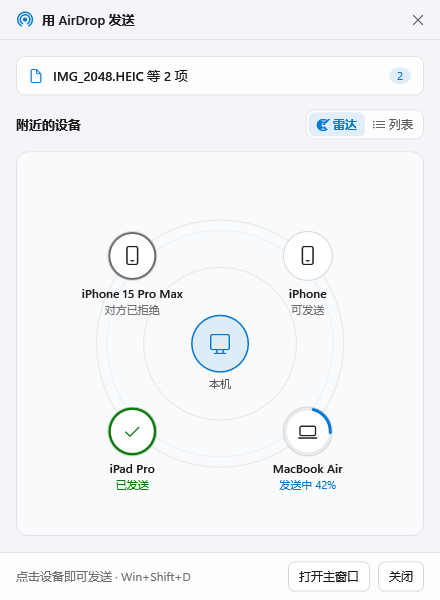
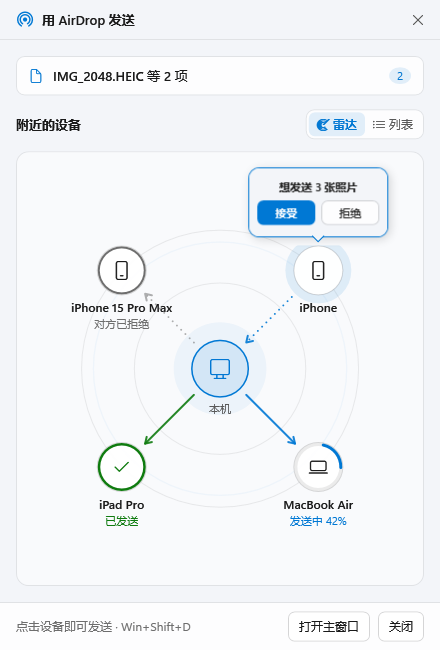
README: 2.0 screenshots (request bubble, arrows)

diff --git a/README.md b/README.md
@@ -46,7 +46,7 @@ A Windows 11 window with its own title bar: nearby iPhones and Macs on a radar (
 
 <table>
   <tr>
-    <td align="center"><img src="docs/screenshots/main-radar.png" width="280" alt="Main window: radar"><br><sub>Radar: waiting, sending, sent, declined</sub></td>
+    <td align="center"><img src="docs/screenshots/main-radar.png" width="280" alt="Main window: radar"><br><sub>Radar: a request to answer, sending, sent, declined</sub></td>
     <td align="center"><img src="docs/screenshots/main-list-dark.png" width="280" alt="Main window: list, dark"><br><sub>List, dark</sub></td>
     <td align="center"><img src="docs/screenshots/send.png" width="230" alt="Send window"><br><sub>Right-click a file → Send with nekodrop</sub></td>
   </tr>
